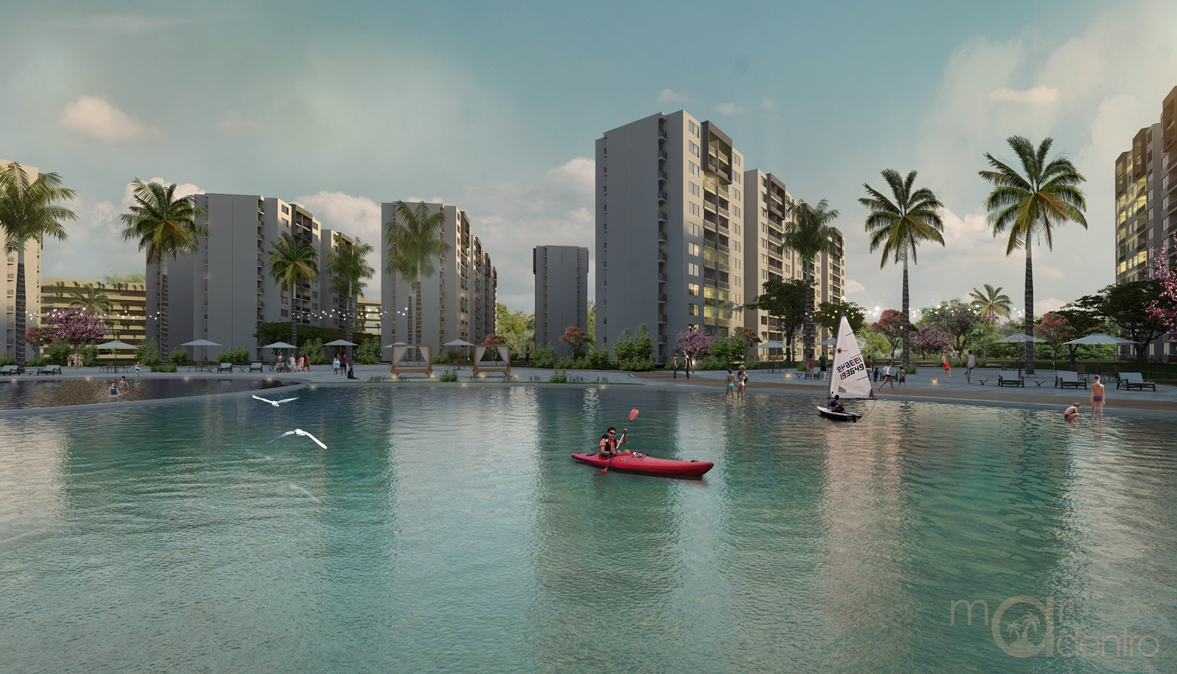
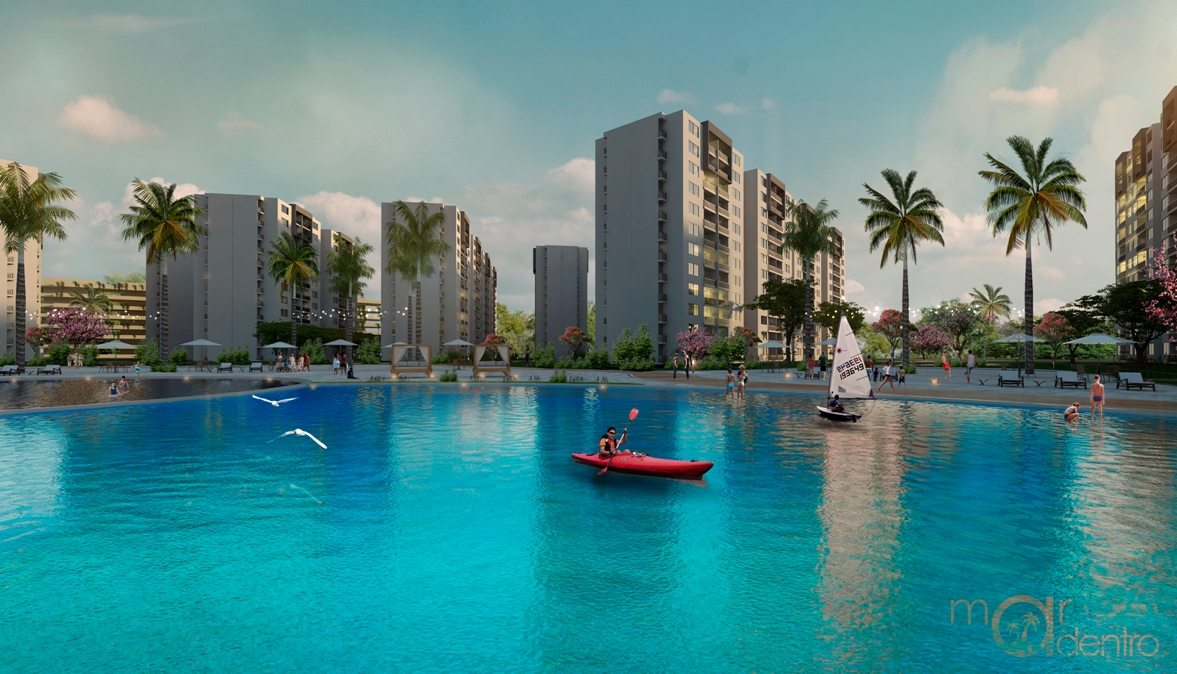
Cambioa de imagenes

diff --git a/pestMasterPlan.php b/pestMasterPlan.php
@@ -12,7 +12,7 @@ $ch[3]['img'] = "img/club/4.jpg";
 $ch[4]['img'] = "img/club/5.jpg";
 $ch[5]['img'] = "img/club/6.jpg";
 
-$cp[0]['img'] = "img/ameSer/1.jpg";
+//$cp[0]['img'] = "img/ameSer/1.jpg";
 //$cp[1]['img'] = "img/ameSer/2.jpg";
 $cp[1]['img'] = "img/ameSer/3.jpg";
 $cp[2]['img'] = "img/ameSer/4.jpg";
